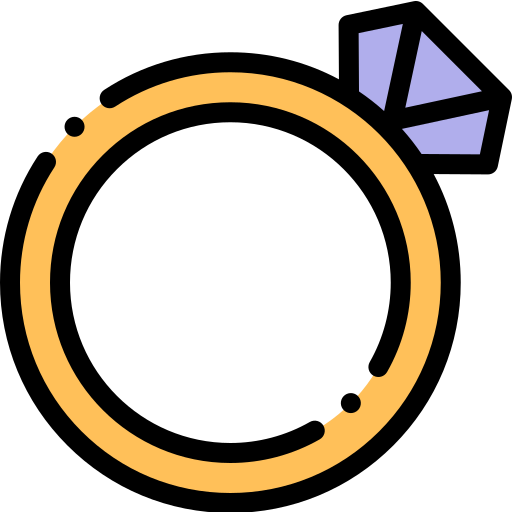
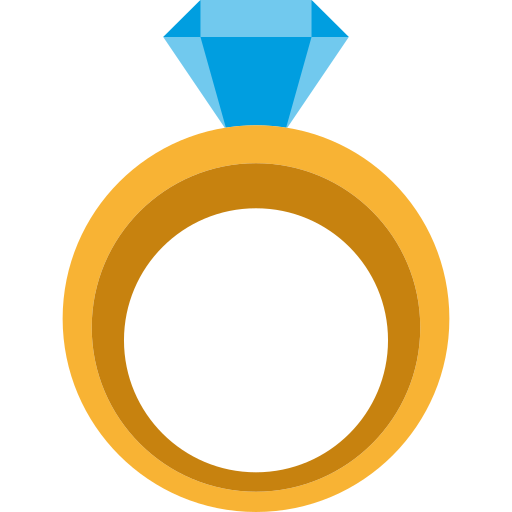
Add About and Discover sections, enhance SiteHeader, and update HeroSection styles

diff --git a/components/discover-section.tsx b/components/discover-section.tsx
@@ -1,0 +1,132 @@
+"use client";
+
+import { useEffect, useRef } from "react";
+import Image from "next/image";
+import gsap from "gsap";
+import { ScrollTrigger } from "gsap/ScrollTrigger";
+import { Button } from "@/components/ui/button";
+
+if (typeof window !== "undefined") {
+  gsap.registerPlugin(ScrollTrigger);
+}
+
+export function DiscoverSection() {
+  const sectionRef = useRef<HTMLDivElement>(null);
+  const maskRef = useRef<HTMLDivElement>(null);
+  const textRef = useRef<HTMLDivElement>(null);
+  const imageRef = useRef<HTMLImageElement>(null);
+
+  useEffect(() => {
+    const ctx = gsap.context(() => {
+      gsap.set(maskRef.current, {
+        maskImage: "url('/ring.png')",
+        maskPosition: "center center",
+        maskRepeat: "no-repeat",
+        maskSize: "20vmin",
+        webkitMaskImage: "url('/ring.png')",
+        webkitMaskPosition: "center center",
+        webkitMaskRepeat: "no-repeat",
+        webkitMaskSize: "20vmin",
+      });
+
+      gsap.set(imageRef.current, {
+        scale: 1.2,
+      });
+
+      gsap.set(textRef.current, {
+        opacity: 0,
+        y: 50,
+      });
+
+      const tl = gsap.timeline({
+        scrollTrigger: {
+          trigger: sectionRef.current,
+          start: "top top",
+          end: "+=150%",
+          scrub: 1,
+          pin: true,
+          anticipatePin: 1,
+        },
+      });
+
+      tl.to(
+        maskRef.current,
+        {
+          maskSize: "300vmax",
+          webkitMaskSize: "300vmax",
+          ease: "power2.inOut",
+          duration: 2,
+        },
+        0,
+      );
+
+      tl.to(
+        imageRef.current,
+        {
+          scale: 1,
+          ease: "power1.out",
+          duration: 2,
+        },
+        0,
+      );
+
+      tl.to(
+        textRef.current,
+        {
+          opacity: 1,
+          y: 0,
+          ease: "power2.out",
+          duration: 0.5,
+        },
+        1.2,
+      );
+    }, sectionRef);
+
+    return () => ctx.revert();
+  }, []);
+
+  return (
+    <section
+      id="discover"
+      ref={sectionRef}
+      className="relative w-full h-screen bg-white overflow-hidden flex items-center justify-center"
+    >
+      <div className="absolute inset-0 z-0 bg-white" />
+
+      <div ref={maskRef} className="absolute inset-0 z-10 w-full h-full">
+        <div className="relative w-full h-full">
+          <Image
+            ref={imageRef}
+            src="/discover.jpg"
+            alt="Discover the collection"
+            fill
+            className="object-cover object-center"
+            priority
+          />
+          <div className="absolute inset-0 bg-white/10" />
+        </div>
+      </div>
+
+      <div
+        ref={textRef}
+        className="relative z-20 text-center max-w-4xl px-4 flex flex-col items-center gap-6"
+      >
+        <span className="text-amber-700 font-medium tracking-[0.2em] text-sm md:text-base uppercase">
+          The Revelation
+        </span>
+        <h2 className="text-4xl md:text-6xl lg:text-7xl font-bold text-slate-900 tracking-tight font-serif">
+          Unveil True <span className="text-amber-600">Elegance</span>
+        </h2>
+        <p className="text-slate-600 text-lg md:text-xl max-w-2xl leading-relaxed">
+          Experience the artistry of GoldCraft. Where timeless tradition meets
+          modern luxury. Every detail tells a story of perfection.
+        </p>
+        <div className="pt-4">
+          <Button className="bg-amber-600 cursor-pointer hover:bg-amber-700 text-white border-none rounded-full px-8 py-6 text-lg transition-all duration-300 shadow-[0_0_20px_rgba(217,119,6,0.3)] hover:shadow-[0_0_30px_rgba(217,119,6,0.5)]">
+            Explore Collection
+          </Button>
+        </div>
+      </div>
+    </section>
+  );
+}

diff --git a/components/about-section.tsx b/components/about-section.tsx
@@ -1,0 +1,82 @@
+"use client";
+
+import Image from "next/image";
+import { motion } from "framer-motion";
+
+export function AboutSection() {
+  return (
+    <section
+      id="about"
+      className="relative w-full py-24 mt-10 bg-white overflow-hidden"
+    >
+      <div className="container mx-auto px-4 md:px-6">
+        <div className="grid grid-cols-1 md:grid-cols-2 gap-12 items-center">
+          <motion.div
+            initial={{ opacity: 0, x: -50 }}
+            whileInView={{ opacity: 1, x: 0 }}
+            viewport={{ once: true }}
+            transition={{ duration: 0.8, ease: "easeOut" }}
+            className="relative h-100 md:h-150 rounded-2xl overflow-hidden shadow-2xl"
+          >
+            <Image
+              src="/discover.jpg"
+              alt="Our Craftsmanship"
+              fill
+              className="object-cover"
+            />
+            <div className="absolute inset-0 bg-amber-900/10 mix-blend-multiply" />
+          </motion.div>
+
+          <motion.div
+            initial={{ opacity: 0, y: 50 }}
+            whileInView={{ opacity: 1, y: 0 }}
+            viewport={{ once: true }}
+            transition={{ duration: 0.8, ease: "easeOut", delay: 0.2 }}
+            className="flex flex-col gap-8"
+          >
+            <div className="space-y-4">
+              <span className="text-amber-600 font-medium tracking-[0.2em] text-sm uppercase">
+                Our Legacy
+              </span>
+              <h2 className="text-4xl md:text-5xl font-serif text-slate-900 leading-tight">
+                Crafting Stories in 
+                <br />
+                <span className="text-amber-600">Pure Gold</span>
+              </h2>
+            </div>
+
+            <p className="text-slate-600 text-lg leading-relaxed">
+              Founded on the principles of integrity and artistry, GoldCraft has
+              been defining luxury for generations. We don&apos;t just sell
+              jewellery; we create masterpieces that celebrate life&apos;s most
+              precious moments.
+            </p>
+
+            <div className="grid grid-cols-2 gap-8 text-center md:text-left">
+              <div className="space-y-2">
+                <h3 className="text-3xl font-serif text-amber-600">25+</h3>
+                <p className="text-slate-500 text-sm uppercase tracking-wider">
+                  Years of Excellence
+                </p>
+              </div>
+              <div className="space-y-2">
+                <h3 className="text-3xl font-serif text-amber-600">10k+</h3>
+                <p className="text-slate-500 text-sm uppercase tracking-wider">
+                  Happy Clients
+                </p>
+              </div>
+            </div>
+
+            <motion.div
+              className="pt-4"
+            >
+              <button className="px-8 py-3 border-2 border-amber-600 text-amber-600 hover:bg-amber-600 hover:text-white transition-all font-medium tracking-wide">
+                Learn More About Us
+              </button>
+            </motion.div>
+          </motion.div>
+        </div>
+      </div>
+    </section>
+  );
+}

diff --git a/components/site-header.tsx b/components/site-header.tsx
@@ -68,6 +68,9 @@ export function SiteHeader() {
             <Link href="#discover" className="text-sm font-medium hover:text-amber-700 transition-colors scroll-smooth">
               Discover
             </Link>
+            <Link href="#about" className="text-sm font-medium hover:text-amber-700 transition-colors scroll-smooth">
+              About
+            </Link>
             <Link href="#shop" className="text-sm font-medium hover:text-amber-700 transition-colors scroll-smooth">
               Shop
             </Link>
@@ -96,7 +99,7 @@ export function SiteHeader() {
           <Link href="/login" className="hidden md:block text-sm font-medium hover:text-amber-700 transition-colors">
             Login
           </Link>
-          <Button className="hidden cursor-pointer md:flex bg-amber-900 hover:bg-amber-800 text-white rounded-none px-6">
+          <Button className="hidden cursor-pointer md:flex bg-amber-600 hover:bg-amber-800 text-white rounded-none px-6">
             Sign Up
           </Button>
         </div>
@@ -129,6 +132,13 @@ export function SiteHeader() {
             onClick={() => setIsMobileMenuOpen(false)}
           >
             Discover
+          </Link>
+          <Link 
+            href="#about" 
+            className="hover:text-amber-700 transition-colors"
+            onClick={() => setIsMobileMenuOpen(false)}
+          >
+            About
           </Link>
           <Link 
             href="#shop" 

diff --git a/app/page.tsx b/app/page.tsx
@@ -1,4 +1,6 @@
 import { HeroSection } from "@/components/hero-section";
+import { DiscoverSection } from "@/components/discover-section";
+import { AboutSection } from "@/components/about-section";
 import { SiteHeader } from "@/components/site-header";
 import { SiteFooter } from "@/components/site-footer";
 
@@ -7,6 +9,8 @@ export default function Home() {
     <main className="min-h-screen bg-[#fcfcfc] overflow-x-hidden">
       <SiteHeader />
       <HeroSection />
+      <AboutSection />
+      <DiscoverSection />
       <SiteFooter />
     </main>
   );

diff --git a/components/hero-section.tsx b/components/hero-section.tsx
@@ -184,7 +184,7 @@ export function HeroSection() {
         <div className="text-center mb-4 md:mb-0 mt-4 md:mt-8 relative z-20">
              <h1 ref={titleRef} className="text-4xl md:text-8xl font-serif text-slate-900 leading-tight">
                 MINDFUL WAY FOR <br />
-                <span className="text-amber-900 block mt-2">CUSTOM JEWELLERY</span>
+                <span className="text-amber-800 block mt-2">CUSTOM JEWELLERY</span>
             </h1>
         </div>
 
